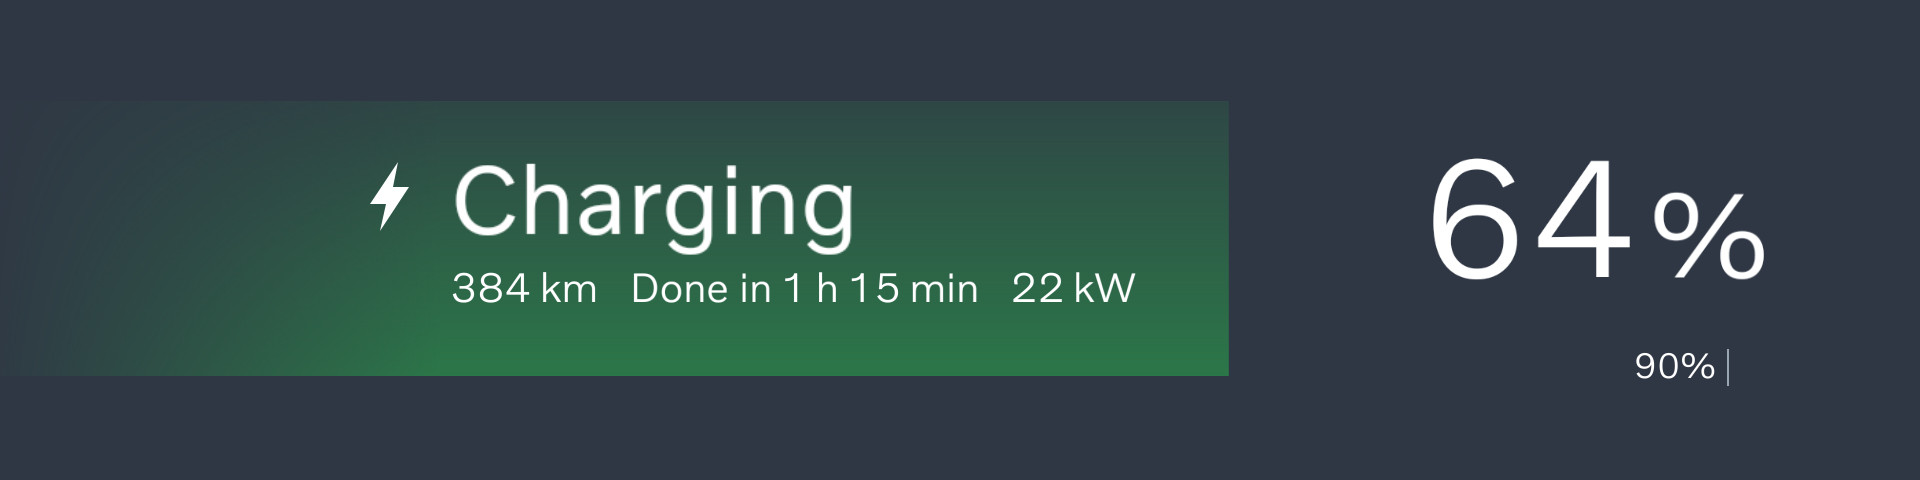
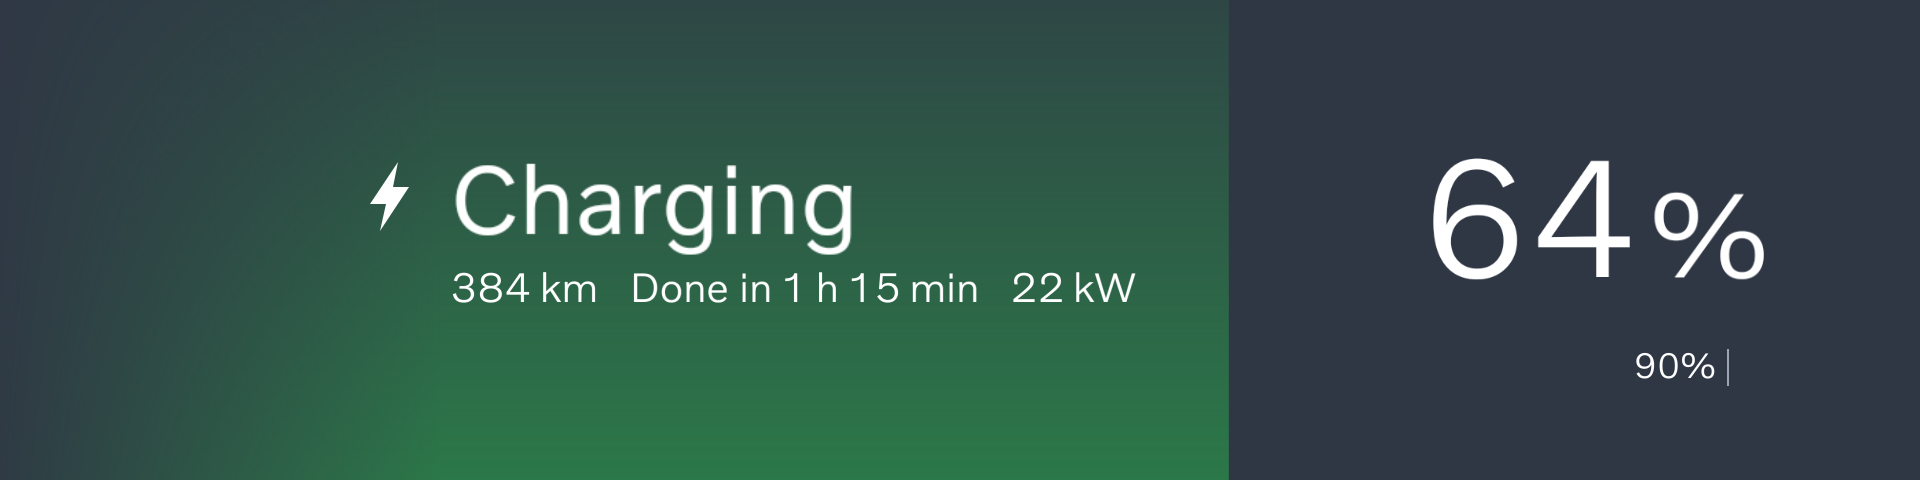
Fill the panel height with the charging gradient

Changed region(s): [[0.0625, 0.7812, 0.6562, 1.0], [0.2188, 0.1562, 0.6562, 0.2188]]

diff --git a/display/tests/test_display.py b/display/tests/test_display.py
@@ -137,18 +137,25 @@ class InstrumentTests(unittest.TestCase):
         self.assertEqual(list(cluster.charging_details({"charge_seconds_remaining": 3600})), [["Done in", "1", "h"]])
         self.assertEqual(list(cluster.charging_details({"charge_seconds_remaining": 1})), [["Done in", "1", "min"]])
 
-    def test_charging_fill_tracks_battery_level_in_both_modes(self):
-        for dark in (False, True):
-            surface = cairo.ImageSurface(cairo.FORMAT_RGB24, 1920, 448)
-            fields = {"charging_active": True, "soc_aaos": 25, "usable_capacity_wh": 100, "charge_target_pct": 90}
-            with patch("cluster.time.monotonic", return_value=0):
-                cluster.draw(cairo.Context(surface), 1920, 448, fields, dark=dark)
-            surface.flush()
-            pixels = memoryview(surface.get_data()).cast("I")
-            bg = pixels[0]
-            self.assertNotEqual(pixels[325 * 1920 + 479], bg)
-            self.assertEqual(pixels[325 * 1920 + 480], bg)
-            self.assertNotEqual(pixels[354 * 1920 + 1728], bg)
+    def test_charging_gradient_fills_panel_height_to_battery_level(self):
+        fields = {"charging_active": True, "soc_aaos": 25, "usable_capacity_wh": 100, "charge_target_pct": 90}
+        width = 1920
+        for height in (480, 1080):
+            for dark in (False, True):
+                with self.subTest(height=height, dark=dark):
+                    surface = cairo.ImageSurface(cairo.FORMAT_RGB24, width, height)
+                    cluster.draw(cairo.Context(surface), width, height, fields, dark=dark)
+                    surface.flush()
+                    pixels = memoryview(surface.get_data()).cast("I")
+                    bg = pixels[width - 1]
+                    edge = width // 4
+                    last_row = (height - 1) * width
+                    for row_start in (0, last_row):
+                        self.assertNotEqual(pixels[row_start + edge - 1], bg)
+                        self.assertEqual(pixels[row_start + edge], bg)
+                    self.assertNotEqual(pixels[edge - 1], pixels[last_row + edge - 1])
+                    marker_y = (height - cluster.HEIGHT) // 2 + 354
+                    self.assertNotEqual(pixels[marker_y * width + 1728], bg)
 
 
 class StreamTests(unittest.TestCase):

diff --git a/display/cluster.py b/display/cluster.py
@@ -267,7 +267,7 @@ def charging_details(fields):
         yield (f"{kw:.1f}".removesuffix(".0") if kw < 10 else whole(kw), "kW")
 
 
-def paint_charging(ctx, fields, lettering, dark):
+def paint_charging(ctx, fields, lettering, panel_height, dark):
     _, ink, secondary, *_ = NIGHT if dark else DAY
     if not dark:
         ink = "#2e2e2e"
@@ -277,7 +277,8 @@ def paint_charging(ctx, fields, lettering, dark):
         green = (43, 126, 73) if dark else (159, 197, 147)
         rgb = tuple(c / 255 for c in green)
         pulse = 0.92 + 0.08 * math.cos(time.monotonic() * math.tau / 4)
-        gradient = cairo.LinearGradient(0, 85, 0, 360)
+        top = (HEIGHT - panel_height) / 2
+        gradient = cairo.LinearGradient(0, top, 0, top + panel_height)
         if dark:
             gradient.add_color_stop_rgba(0, *rgb, 0.22)
         else:
@@ -288,7 +289,7 @@ def paint_charging(ctx, fields, lettering, dark):
         fade.add_color_stop_rgba(0, 0, 0, 0, 0.05)
         fade.add_color_stop_rgba(1, 0, 0, 0, 1)
         ctx.save()
-        ctx.rectangle(0, 85, width, 275)
+        ctx.rectangle(0, top, width, panel_height)
         ctx.clip()
         ctx.set_source(gradient)
         ctx.mask(fade)
@@ -374,10 +375,11 @@ def draw(ctx, width, height, fields, lettering=None, *, dark=False, message=""):
     ctx.save()
     ctx.translate((width - WIDTH * scale) / 2, (height - HEIGHT * scale) / 2)
     ctx.scale(scale, scale)
+    panel_height = height / scale
     if charging:
-        paint_charging(ctx, fields, lettering, dark)
+        paint_charging(ctx, fields, lettering, panel_height, dark)
     else:
-        paint_driving(ctx, fields, lettering, min(height / scale, WIDTH / 4), dark)
+        paint_driving(ctx, fields, lettering, min(panel_height, WIDTH / 4), dark)
     if fields.get("parking_brake") is True:
         parking_brake(ctx, lettering, brake)
     if message:

diff --git a/README.md b/README.md
@@ -38,9 +38,11 @@ A missing speed displays a dash. Each snapshot replaces all the previous reading
 
 ![Charging at 64 percent, with 384 km of range, 1 h 15 min remaining, 22 kW into the battery, and a 90 percent target](docs/charging-day.png)
 
-The EX90 puts the charging status and session details on the left, the current percentage on the right, and a marker at the selected target. The green fill tracks the current charge. Its pulse continues while readings are steady. The Pi uses the EX30’s relative “Done in” wording and shows the car’s estimate and target only when available. The kW figure is net power going into the battery. [Volvo’s EX90 instrument-panel illustration](https://www.volvocars.com/media/support-content/img2bd25bed8087ea7ac0a801f2015637bf_1_--_--_SVG.png) · [Kiosk in dark mode](docs/charging-night.png)
+The EX90 puts the charging status and session details on the left, the current percentage on the right, and a marker at the selected target. On the Pi, the green gradient fills the panel from top to bottom. Its width follows the current charge and its brightness pulses while charging. The Pi uses the EX30’s relative “Done in” wording and shows the car’s estimate and target only when available. The kW figure is net power going into the battery. [Volvo’s EX90 instrument-panel illustration](https://www.volvocars.com/media/support-content/img2bd25bed8087ea7ac0a801f2015637bf_1_--_--_SVG.png) · [Kiosk in dark mode](docs/charging-night.png)
 
-The archived EX30 emulator contains the driver-strip illustration in its built-in manual. In `UserManual.apk`, the English article “Charging status in the display” points into `assets/default/documentAssetBundle.zip` to `img504ec2510898026ec0a801f21c4aa44d_1_--_--_SVG.svg`. Its embedded daylight image supplies the charcoal text (#2e2e2e), light grey background (#ebebeb), sage-green fill and percent proportions. The night treatment combines the existing EX30 night palette with green sampled from the EX90 illustration. [EX30 charging status guide](https://www.volvocars.com/us/support/car/ex30/article/a3d4c324d33d417cc0a8cc37744d76ea-ec8b59f1d33539aec0a8cc374c819eab-77f3800cb793a946c0a8b05d49c187d2/)
+The daylight colours and percent proportions come from the EX30 emulator’s built-in manual. Its `assets/default/user_manual.json` identifies car software `1.0` and content `23w38d`. The English charging article points to `img504ec2510898026ec0a801f21c4aa44d_1_--_--_SVG.svg` in `assets/default/documentAssetBundle.zip` inside `UserManual.apk`. That illustration has a sage-green gradient on light grey. Volvo’s 2025 Canadian guide and its U.S. guide updated May 25, 2026 point to the same dark illustration, which has a uniform green fill (`#2b7e49`) on charcoal (`#2f2f2f`). Volvo describes active charging as pulsating. The Pi uses the green on its existing navy night palette. [Volvo’s dark EX30 illustration](https://www.volvocars.com/media/support-content/img1e5a015598b7302bc0a801f21f85e9f3_1_--_--_SVG.png) · [2025 Canadian guide](https://www.volvocars.com/en-ca/support/car/ex30/2025/article/a3d4c324d33d417cc0a8cc37744d76ea-ec8b59f1d33539aec0a8cc374c819eab-77f3800cb793a946c0a8b05d49c187d2/) · [U.S. charging status guide](https://www.volvocars.com/us/support/car/ex30/article/a3d4c324d33d417cc0a8cc37744d76ea-ec8b59f1d33539aec0a8cc374c819eab-77f3800cb793a946c0a8b05d49c187d2/)
+
+The signed Android emulator image was built May 15, 2025. Its configured cluster APK labels itself “Fake Cluster Implementation” and displays Android’s sample instruments. The day and night gradient drawables in `XCSettings2_Gecko.apk` belong to the center-screen charging settings. The production EX30 top strip’s fill and animation on software 1.8 and 2.x remain unverified. [Android’s sample cluster service](https://source.android.com/docs/automotive/displays/cluster_api) · [Volvo’s software release dates](https://www.volvocars.com/uk/support/car/ex30/software-release-notes/)
 
 The car’s reported charging state takes precedence. On cars that omit it, the display requires Park, a connected plug and at least 100 W of net charging power. Known motion or a driving gear selects the driving view. A plugged-in car that reports idle, full or fault stays on the parked driving view with the plug indicator. [Charging signals and availability](ex30-companion-aaos/docs/properties.md)
 
